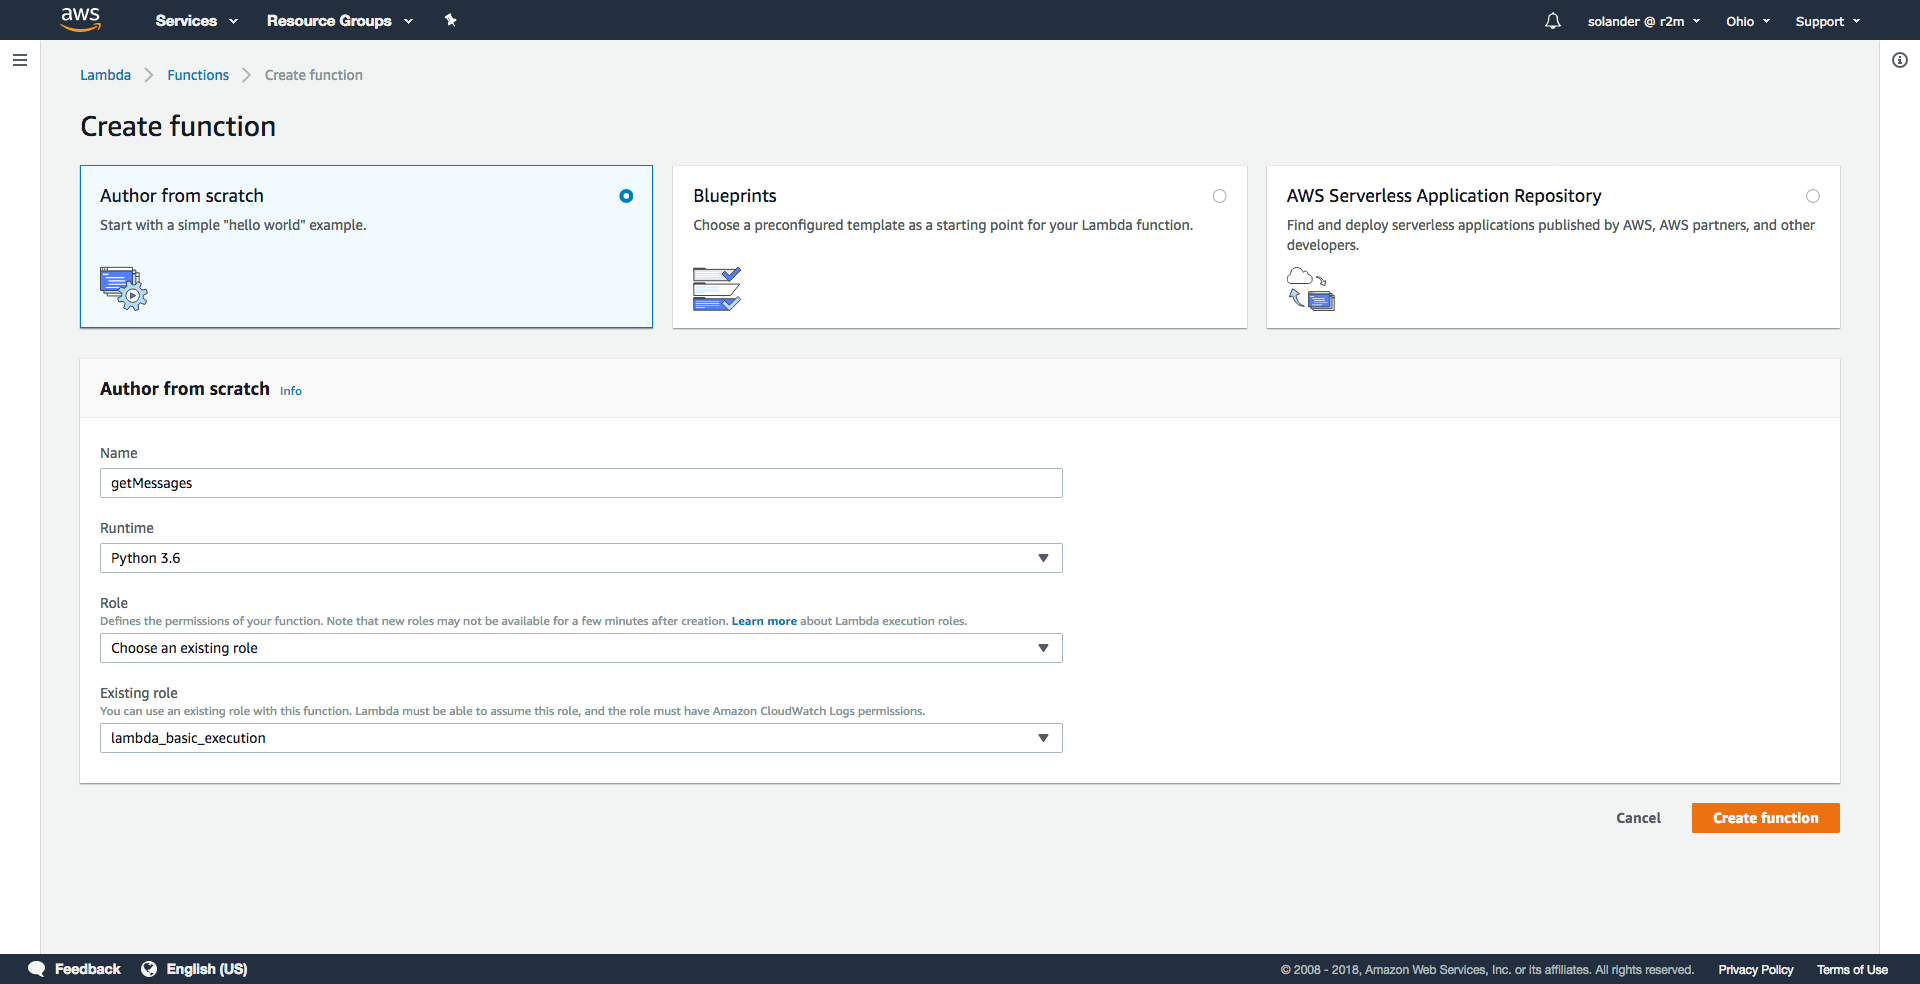
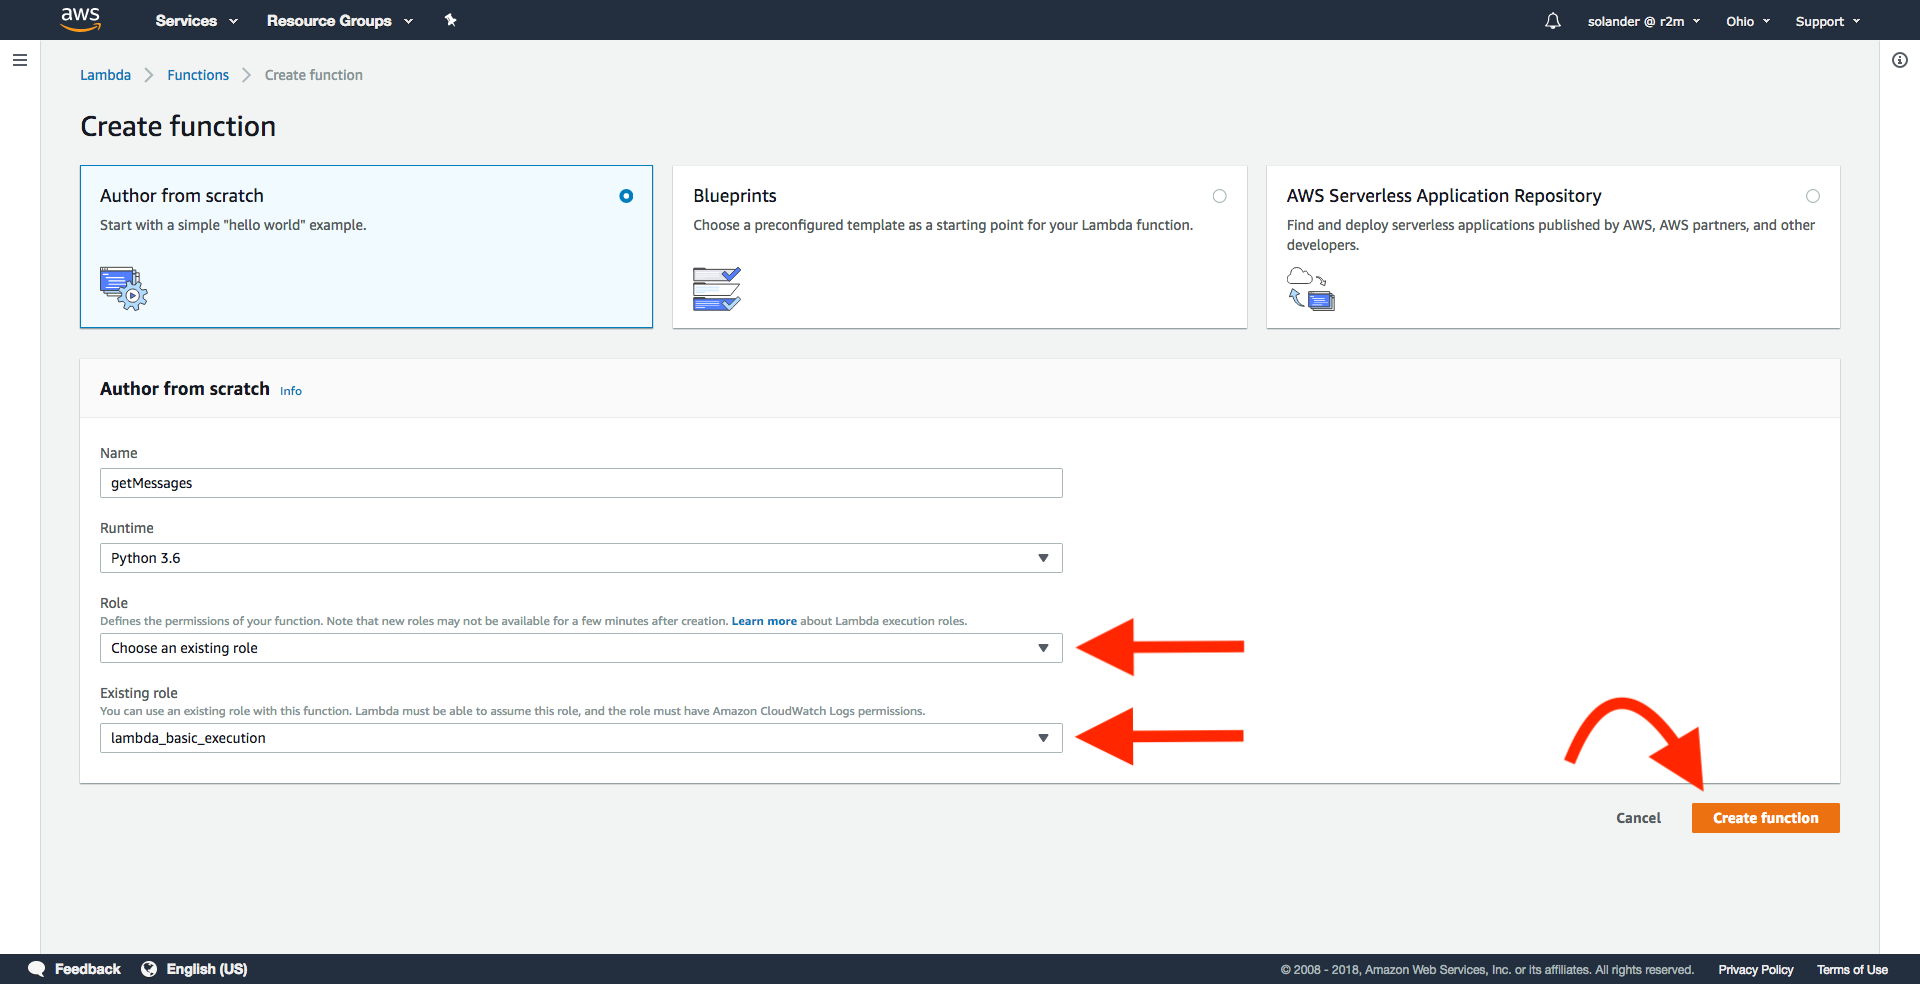
Cleaned up create GET with correct image

Changed region(s): [[0.8125, 0.7012, 0.9062, 0.7927], [0.5625, 0.7317, 0.6562, 0.7927], [0.5625, 0.6402, 0.6562, 0.7012]]

diff --git a/README.md b/README.md
@@ -18,7 +18,7 @@ Everyone new to AWS spends a long time looking around in configuration files to 
 
 ## Home prep for you
 I need four things of you before we start the lab
-1. You all have to be able to log in to AWS Console. If you don't have an account, talk to Anders or head to https://aws.amazon.com/ and hit **Sign up**. It takes a couple of minutes and requires personal details like credit card, but everything in this lab is free.
+1. You all have to be able to log in to AWS Console. If you don't have an account, head to https://aws.amazon.com/ and hit **Sign up**. It takes a couple of minutes and requires personal details like credit card, but everything in this lab is free.
 2. I will also send you a file called **rds_config.py** containing the credentials for the database that we will be working with. Keep this safe somewhere.
 3. Clone this repo to your personal computer.
 4. We will be zipping files, make sure you have some program that can create a .zip
@@ -74,7 +74,7 @@ cd lambdas/getMessages/
 python3 -c "from index import handler; print(handler({'params': {'querystring': {'limit': '1'}}}, {}));"
 
 # output
-[{'id': 17, 'username': 'sios', 'message': 'Inserting a message from the gateway api section', 'created_time': '2018-11-04 20:42:30+01:00'}]
+# [{'id': 17, 'username': 'sios', 'message': 'Inserting a message from the gateway api section', 'created_time': '2018-11-04 20:42:30+01:00'}]
 ```
 If you get get an error saying **ModuleNotFoundError: No module named 'rds_config'**, make sure that you copied `rds_config.py` to the right place.
 
@@ -102,15 +102,12 @@ You should have two zip files, one for each code folder. The names of the zip fi
 
 
 
-
 # Creating the functions in AWS
 
 ## Sign in to AWS and go to Lambdas
 Sign in to AWS at https://console.aws.amazon.com/. The sign in option is in the top right corner. We are going to the *Service* called *Lambda*.
 
-Click **Services** in the top menu bar, then click **Lamdba** in the menu.
-
-Click the big orange button called **Create function**.
+Click **Services** in the top menu bar, then click **Lamdba** in the menu. In the lambda page, click the big orange button called **Create function**.
 
 ![alt text](screenshots/go-to-lambda.png "Go to Lambda")
 
@@ -123,21 +120,26 @@ Fill in the form for your function. We are doing `getMessages` first.
 Field | Value
 --- | ---
 **Template** | `Author from scratch` 
-**Name**     | `getMessages` 
-**Runtime**  | `Python 3.6` 
-**Role**     | `Create a custom role` (if you already have an existing role, you can use that one) 
+**Name** | `getMessages` 
+**Runtime** | `Python 3.6` 
+**Role** | `Create a custom role` (if you already have an existing role, you can use that one) 
 
 ![Create the function geMessages](screenshots/create-function-getMessages.png "Create the function getMessages")
 
-
-
-## Create a new custom roll
-
 You will be taken to a window to create your role. Just leave everything as-is. The role will be called `lambda_basic_execution`.
 
-Click **Allow** then **Create function**
+Click **Allow**
 
 ![Create a custom roll](screenshots/create-custom-roll.png "Create a custom roll")
+
+If you come back to the create function page, select `lambda_basic_execution and click **Create function**.
+
+Field | Value
+--- | ---
+**Role** | `Choose an existing role`
+**Existing role** | `lambda_basic_execution`
+
+![Create with existing role](screenshots/create-function-getMessages-with-existing-role.png "Choose lambda_basic_execution and click create")
 
 
 
@@ -173,8 +175,7 @@ Go back to **Functions** and create a new lambda the same way. This time call it
 
 ## Go to API Gateway
 
-Click **Services** in the top menu again. This time go to **API Gateway**.
-If you see a welcome screen, click **Get started**.
+Click **Services** in the top menu again. This time go to **API Gateway**. If you see a welcome screen, click **Get started**.
 
 ![Go to Gateway API](screenshots/go-to-gateway.png "Go to Gateway API")
 
@@ -203,9 +204,7 @@ Select **Create Method** from the **Actions** dropdown.
 
 ![Create GET method](screenshots/create-method-get.png "Create GET method")
 
-Select **GET** from the small dropdown under **Resources**
-
-Click the small checkmark next to the dropdown
+Select **GET** from the small dropdown under **Resources**, then save by clicking the small checkmark next to the dropdown.
 
 ![alt text](screenshots/select-get.png "Select GET")
 
@@ -238,7 +237,8 @@ You can see four boxes now where we will configure the request and response mapp
 ## Configure Method Request
 
 Go to **Method Request**
-Expand **URL Query String Parameters** and add a new query string.
+
+Expand **URL Query String Parameters** and add a new query string:
 
 Field | Value
 --- | ---
@@ -253,6 +253,7 @@ Field | Value
 ## Configure Integration Request
 
 Go back to **Method Execution**, then to **Integration Request**
+
 Expand **URL Query String Parameters** add a new entry:
 
 Field | Value
@@ -265,7 +266,7 @@ Field | Value
 
 
 
-Expand **Mapping Templates**
+A bit down but still in **Integration Request**, expand **Mapping Templates**. We're going to create a new mapping to pass all the arguments to the lambda.
 
 Field | Value
 --- | ---
@@ -287,7 +288,8 @@ Click **Save**
 ## Configure Method Response
 
 Go back to **Method Execution**, then to **Method Response**
-Add a new HTTP Status response
+
+Add a new HTTP Status response:
 
 Field | Value
 --- | ---
@@ -300,7 +302,8 @@ Field | Value
 ## Configure Integration Response
 
 Go back to **Method Execution**, then to **Integration Response**
-Add a new integration response
+
+Add a new integration response:
 
 Field | Value
 --- | ---
